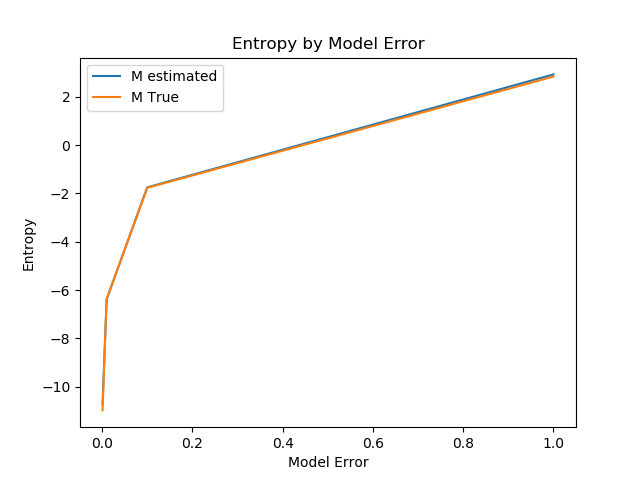
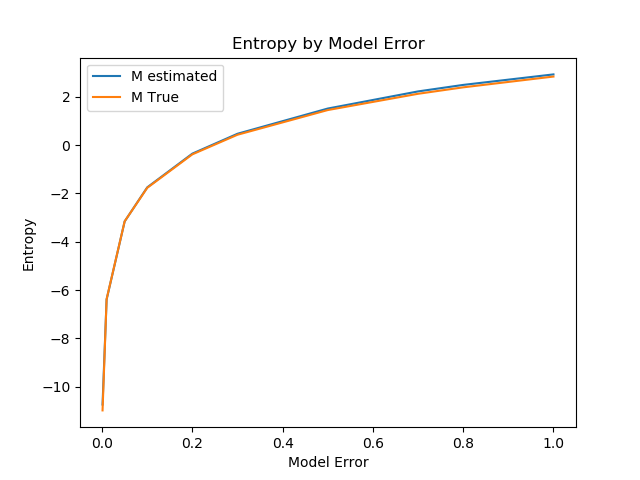
plot entropy

Changed region(s): [[0.375, 0.1562, 0.875, 0.3125], [0.1562, 0.2812, 0.4375, 0.625]]

diff --git a/exercise_2/task4/guy_algorithm.py b/exercise_2/task4/guy_algorithm.py
@@ -4,169 +4,171 @@ import matplotlib.pyplot as plt
 random_seed = 1  # used throughout the example
 np.random.seed(random_seed)
 
+def try_error(model_error=1e-3):
 
-def f_true(x, data_t):
-    xc0 = x[:, 0] + 1j * x[:, 1]
-    angle = np.angle(xc0)
-    xc1 = (1 + np.sin(5 * angle) / 3) * np.exp(1j * (angle + data_t))
-    return np.column_stack([np.real(xc1), np.imag(xc1)])
-
-
-def f_model(x, data_t, m_error):
-    return f_true(x, data_t) + np.random.randn(x.shape[0], x.shape[1]) * m_error
+    def f_true(x, data_t):
+        xc0 = x[:, 0] + 1j * x[:, 1]
+        angle = np.angle(xc0)
+        xc1 = (1 + np.sin(5 * angle) / 3) * np.exp(1j * (angle + data_t))
+        return np.column_stack([np.real(xc1), np.imag(xc1)])
 
 
-# Initial state of the true and simulated data
-x0 = np.array([1, 0]).reshape(1, -1)
-x0 = x0 / np.linalg.norm(x0)
-# Number of time steps for the given simulation
-NT = 100
-# Physical time that passes in the given number of time steps
-T = 5
-dt = T / NT
-time = np.linspace(0, T, NT)
+    def f_model(x, data_t, m_error):
+        return f_true(x, data_t) + np.random.randn(x.shape[0], x.shape[1]) * m_error
 
 
-# this 'parameter' essentially defines how well the model approximates the true dynamics for this example.
-# Values below 0.05 yield essentially no visible difference to the truth, while values above 0.1
-# make the trajectories almost indistinguishable from noise, and only ensemble runs make it possible to evaluate
-# the error and estimate the true state.
-model_error = 1e-3
-
-# this is the error in the true model, and also in the observations. You do not need to change this.
-true_error = 1e-4
-m = 10  # ensemble runs
-n = 1  # number of agents. Note that the models f_true and f_model only work
-d = 2  # dimension per "agent" (we only have one here) nd = n*d # total state dimension
-
-nd = n * d  # total state dimension
-xt = np.zeros((NT, (nd * m)))
-# initialize the ensembles with randomly perturbed states
-# in this example, this is not necessary because the model itself introduces
-
-xt[0, :] = np.column_stack([x0 + np.random.randn(1) / 1000 for i in range(m * n)])
-xm = xt.copy()
-for k in range(1, NT):
-    for i in range(m):
-        # using this as "true dynamics" means there is no noise in the true states(which is also ok)
-        # xt[k,(i*n):((i+1)*n)]=(f_true(xt[k-1,(i*n):((i+1)*n)].reshape(1,-1), dt))
-        # test what happens if the "true dynamics" are just a less noisy version of the model
-        xt[k, (i * nd):((i + 1) * nd)] = (f_model(xt[k - 1, (i * nd):((i + 1) * nd)].reshape(1, -1), dt, true_error))
-        xm[k, (i * nd):((i + 1) * nd)] = (f_model(xm[k - 1, (i * nd):((i + 1) * nd)].reshape(1, -1), dt, model_error))
-
-fig, ax = plt.subplots(1, 2, figsize=(8, 4), sharey='all')
-ax[0].scatter(xt[:, 0], xt[:, 1], s=1, label='true state')
-
-ax[0].scatter(xm[:, 0], xm[:, 1], s=1, label='model state')
-ax[0].set_xlabel('space 1')
-ax[0].set_ylabel('space 2')
-ax[0].set_title('trajectories in space')
-ax[0].legend()
-ax[1].plot(time, xt)
-ax[1].plot(time, xm)
-ax[1].set_xlabel('time')
-ax[1].set_ylabel('space 1,2')
-ax[1].set_title('trajectories in time')
-plt.show()
+    # Initial state of the true and simulated data
+    x0 = np.array([1, 0]).reshape(1, -1)
+    x0 = x0 / np.linalg.norm(x0)
+    # Number of time steps for the given simulation
+    NT = 100
+    # Physical time that passes in the given number of time steps
+    T = 5
+    dt = T / NT
+    time = np.linspace(0, T, NT)
 
 
-def normal_draw(cov):
-    """draw an n-dimensional point from a Gaussian distribution with givencovariance."""
-    return np.random.multivariate_normal(0 * cov[:, 0], cov, 1)
+    # this 'parameter' essentially defines how well the model approximates the true dynamics for this example.
+    # Values below 0.05 yield essentially no visible difference to the truth, while values above 0.1
+    # make the trajectories almost indistinguishable from noise, and only ensemble runs make it possible to evaluate
+    # the error and estimate the true state.
 
+    # this is the error in the true model, and also in the observations. You do not need to change this.
+    true_error = 1e-4
+    m = 10  # ensemble runs
+    n = 1  # number of agents. Note that the models f_true and f_model only work
+    d = 2  # dimension per "agent" (we only have one here) nd = n*d # total state dimension
 
-def observation(x):
-    # relatively simple observation function z=h(x), also no change in dimension
-    return -x / 2 + np.cos(x) / 3
+    nd = n * d  # total state dimension
+    xt = np.zeros((NT, (nd * m)))
+    # initialize the ensembles with randomly perturbed states
+    # in this example, this is not necessary because the model itself introduces
 
-
-# compute ensemble Kalman smoothing
-def algorithm1_enks(z_data, error_covariance_m, error_covariance_q, observation, fhat_model):
-    t = z_data.shape[0]
-    m_l = error_covariance_m
-    q_l = error_covariance_q
-
-    # initialize the initial guess for the model state with random numbers
-    # normally, one would probably have a better guess
-    xk = np.random.randn(z_data.shape[0], z_data.shape[1]) / 10000
-    for k in range(1, t):
-        zk = np.zeros((z_data.shape[1],))
+    xt[0, :] = np.column_stack([x0 + np.random.randn(1) / 1000 for i in range(m * n)])
+    xm = xt.copy()
+    for k in range(1, NT):
         for i in range(m):
-            mkm1 = normal_draw(m_l)
-            xk[k, (i * nd):((i + 1) * nd)] = fhat_model(xk[k - 1, (i * nd):((i + 1) * nd)].reshape(1, -1)) + mkm1
-            qk = normal_draw(q_l)
-            zk[(i * nd):((i + 1) * nd)] = observation(xk[k, (i * nd):((i + 1) * nd)].reshape(1, -1)) + qk
-        zkhat = 1 / m * np.sum([zk[i::nd] for i in range(nd)], axis=1)
-        zdiff = np.row_stack([(zk[(i * nd):((i + 1) * nd)] - zkhat) for i in range(m)])
-        z_k = np.cov(zdiff.T)
+            # using this as "true dynamics" means there is no noise in the true states(which is also ok)
+            # xt[k,(i*n):((i+1)*n)]=(f_true(xt[k-1,(i*n):((i+1)*n)].reshape(1,-1), dt))
+            # test what happens if the "true dynamics" are just a less noisy version of the model
+            xt[k, (i * nd):((i + 1) * nd)] = (f_model(xt[k - 1, (i * nd):((i + 1) * nd)].reshape(1, -1), dt, true_error))
+            xm[k, (i * nd):((i + 1) * nd)] = (f_model(xm[k - 1, (i * nd):((i + 1) * nd)].reshape(1, -1), dt, model_error))
 
-        for j in range(1, k + 1):
-            xjbar = np.array(1 / m * np.sum([xk[j, i::nd] for i in range(nd)], axis=1))
-            xdiff = np.row_stack([(xk[j, (i * nd):((i + 1) * nd)] - xjbar) for i in range(m)])
-            zdiff = np.row_stack([(zk[(i * nd):((i + 1) * nd)] - zkhat) for i in range(m)])
-            sigmaj = 1 / (m - 1) * (xdiff.T @ zdiff)
-            matk = sigmaj @ np.linalg.pinv(z_k, rcond=1e-10)
+    fig, ax = plt.subplots(1, 2, figsize=(8, 4), sharey='all')
+    ax[0].scatter(xt[:, 0], xt[:, 1], s=1, label='true state')
+
+    ax[0].scatter(xm[:, 0], xm[:, 1], s=1, label='model state')
+    ax[0].set_xlabel('space 1')
+    ax[0].set_ylabel('space 2')
+    ax[0].set_title('trajectories in space')
+    ax[0].legend()
+    ax[1].plot(time, xt)
+    ax[1].plot(time, xm)
+    ax[1].set_xlabel('time')
+    ax[1].set_ylabel('space 1,2')
+    ax[1].set_title('trajectories in time')
+    plt.show()
+
+
+    def normal_draw(cov):
+        """draw an n-dimensional point from a Gaussian distribution with givencovariance."""
+        return np.random.multivariate_normal(0 * cov[:, 0], cov, 1)
+
+
+    def observation(x):
+        # relatively simple observation function z=h(x), also no change in dimension
+        return -x / 2 + np.cos(x) / 3
+
+
+    # compute ensemble Kalman smoothing
+    def algorithm1_enks(z_data, error_covariance_m, error_covariance_q, observation, fhat_model):
+        t = z_data.shape[0]
+        m_l = error_covariance_m
+        q_l = error_covariance_q
+
+        # initialize the initial guess for the model state with random numbers
+        # normally, one would probably have a better guess
+        xk = np.random.randn(z_data.shape[0], z_data.shape[1]) / 10000
+        for k in range(1, t):
+            zk = np.zeros((z_data.shape[1],))
             for i in range(m):
-                xk[j, (i * nd):((i + 1) * nd)] = xk[j, (i * nd):((i + 1) * nd)] + matk @ (
-                        z_data[k, (i * nd):((i + 1) * nd)] - zk[(i * nd):((i + 1) * nd)])
-    return xk
+                mkm1 = normal_draw(m_l)
+                xk[k, (i * nd):((i + 1) * nd)] = fhat_model(xk[k - 1, (i * nd):((i + 1) * nd)].reshape(1, -1)) + mkm1
+                qk = normal_draw(q_l)
+                zk[(i * nd):((i + 1) * nd)] = observation(xk[k, (i * nd):((i + 1) * nd)].reshape(1, -1)) + qk
+            zkhat = 1 / m * np.sum([zk[i::nd] for i in range(nd)], axis=1)
+            zdiff = np.row_stack([(zk[(i * nd):((i + 1) * nd)] - zkhat) for i in range(m)])
+            z_k = np.cov(zdiff.T)
+
+            for j in range(1, k + 1):
+                xjbar = np.array(1 / m * np.sum([xk[j, i::nd] for i in range(nd)], axis=1))
+                xdiff = np.row_stack([(xk[j, (i * nd):((i + 1) * nd)] - xjbar) for i in range(m)])
+                zdiff = np.row_stack([(zk[(i * nd):((i + 1) * nd)] - zkhat) for i in range(m)])
+                sigmaj = 1 / (m - 1) * (xdiff.T @ zdiff)
+                matk = sigmaj @ np.linalg.pinv(z_k, rcond=1e-10)
+                for i in range(m):
+                    xk[j, (i * nd):((i + 1) * nd)] = xk[j, (i * nd):((i + 1) * nd)] + matk @ (
+                            z_data[k, (i * nd):((i + 1) * nd)] - zk[(i * nd):((i + 1) * nd)])
+        return xk
 
 
-def max_likelihood(xk, fhat_model):
-    t = xk.shape[0]
-    data = []
-    for k in range(1, t - 1):
-        for i in range(m):
-            fhat = fhat_model(xk[k, (i * nd):((i + 1) * nd)].reshape(1, -1))
-            xhat = xk[k + 1, (i * nd):((i + 1) * nd)]
-            data.append((xhat - fhat))
-    data = np.row_stack(data)
-    # note that we do not compute it "per agent", as in the paper guy-2019b,
-    # but for all coordinates of the state (we only consider one "agent" in this code)
-    return np.cov(data.T)
+    def max_likelihood(xk, fhat_model):
+        t = xk.shape[0]
+        data = []
+        for k in range(1, t - 1):
+            for i in range(m):
+                fhat = fhat_model(xk[k, (i * nd):((i + 1) * nd)].reshape(1, -1))
+                xhat = xk[k + 1, (i * nd):((i + 1) * nd)]
+                data.append((xhat - fhat))
+        data = np.row_stack(data)
+        # note that we do not compute it "per agent", as in the paper guy-2019b,
+        # but for all coordinates of the state (we only consider one "agent" in this code)
+        return np.cov(data.T)
 
 
-np.random.seed(random_seed)
-# this is the initial guess for the entropy matrix. can be pretty arbitrary
-M = np.identity(n)
-# this is the guess for the true error in the observations. should be small here
-Q = np.identity(n) * true_error ** 2
-N_ITER = 5  # number of iterations of algorithm1_enks and max_likelihood
-Mhat = M
-zk = observation(xt[1:, :])
-xm_hat = 0
-xm_hat_prev = 0
-for k in range(N_ITER):
-    xm_hat = algorithm1_enks(zk, Mhat, Q, observation, lambda x: f_model(x, dt, model_error))
-    Mhat = max_likelihood(xm_hat, lambda x: f_model(x, dt, model_error))
-    print('current det(M)', np.linalg.det(Mhat))
-    print('error change ', np.linalg.norm(xm_hat - xm_hat_prev))
-    xm_hat_prev = xm_hat
+    np.random.seed(random_seed)
+    # this is the initial guess for the entropy matrix. can be pretty arbitrary
+    M = np.identity(n)
+    # this is the guess for the true error in the observations. should be small here
+    Q = np.identity(n) * true_error ** 2
+    N_ITER = 5  # number of iterations of algorithm1_enks and max_likelihood
+    Mhat = M
+    zk = observation(xt[1:, :])
+    xm_hat = 0
+    xm_hat_prev = 0
+    for k in range(N_ITER):
+        xm_hat = algorithm1_enks(zk, Mhat, Q, observation, lambda x: f_model(x, dt, model_error))
+        Mhat = max_likelihood(xm_hat, lambda x: f_model(x, dt, model_error))
+        print('current det(M)', np.linalg.det(Mhat))
+        print('error change ', np.linalg.norm(xm_hat - xm_hat_prev))
+        xm_hat_prev = xm_hat
 
-fig, ax = plt.subplots(1, 2, figsize=(16, 4), sharey='all')
-ax[0].plot(time, xt[:, 0], label='true state 1')
-ax[0].plot(time, xt[:, 1], label='true state 2')
-ax[0].plot(time[1:], zk[:, 0], 'g:', label='observation 1')
-ax[0].plot(time[1:], zk[:, 1], 'g.', label='observation 2')
-ax[0].set_title('true states and observations')
-ax[0].legend()
+    fig, ax = plt.subplots(1, 2, figsize=(16, 4), sharey='all')
+    ax[0].plot(time, xt[:, 0], label='true state 1')
+    ax[0].plot(time, xt[:, 1], label='true state 2')
+    ax[0].plot(time[1:], zk[:, 0], 'g:', label='observation 1')
+    ax[0].plot(time[1:], zk[:, 1], 'g.', label='observation 2')
+    ax[0].set_title('true states and observations')
+    ax[0].legend()
 
-# this second plot shows the estimated MODEL (!) state, but since the model here is just the truth plus noise,
-# the estimated model state should be the true state.
-# We also skip the first state in xm_hat, since it was chosen at random.
-ax[1].plot(time[2:], xm_hat[1:, 0], '-', label='estimated model state 1')
-ax[1].plot(time[2:], xm_hat[1:, 1], '-', label='estimated model state 2')
-ax[1].set_title('estimated states from observations and model')
-ax[1].legend()
-plt.show()
-
-
-def entropy(m_dist):
-    return 1 / 2 * n * np.log((2 * np.pi * np.exp(1)) ** d * np.linalg.det(m_dist))
+    # this second plot shows the estimated MODEL (!) state, but since the model here is just the truth plus noise,
+    # the estimated model state should be the true state.
+    # We also skip the first state in xm_hat, since it was chosen at random.
+    ax[1].plot(time[2:], xm_hat[1:, 0], '-', label='estimated model state 1')
+    ax[1].plot(time[2:], xm_hat[1:, 1], '-', label='estimated model state 2')
+    ax[1].set_title('estimated states from observations and model')
+    ax[1].legend()
+    plt.show()
 
 
-# print the estimated entropy against the known entropy.
-# this is only possible in this computational experiment,
-# because we normally do not know the 'true model' and the model error.
-print('entropy(M estimated) ', entropy(Mhat))
-print('entropy(M true) ', entropy(np.identity(Mhat.shape[0]) * model_error ** 2))
+    def entropy(m_dist):
+        return 1 / 2 * n * np.log((2 * np.pi * np.exp(1)) ** d * np.linalg.det(m_dist))
+
+
+    # print the estimated entropy against the known entropy.
+    # this is only possible in this computational experiment,
+    # because we normally do not know the 'true model' and the model error.
+    print('entropy(M estimated) ', entropy(Mhat))
+    print('entropy(M true) ', entropy(np.identity(Mhat.shape[0]) * model_error ** 2))
+
+    return entropy(Mhat), entropy(np.identity(Mhat.shape[0]) * model_error ** 2)

diff --git a/exercise_2/plot entropy.py b/exercise_2/plot entropy.py
@@ -1,0 +1,27 @@
+import matplotlib.pyplot as plt
+import numpy as np
+import functools
+from task4.guy_algorithm import try_error
+
+errors = [1e-3, 1e-2, 5e-2, 1e-1, 2e-1, 3e-1, 5e-1, 7e-1, 8e-1, 1e-0]
+real_entropy = []
+predicted_entropy = []
+
+for error in errors:
+    predicted, real = try_error(error)
+    real_entropy.append(real)
+    predicted_entropy.append(predicted)
+
+plt.plot(errors, predicted_entropy, label='M estimated')
+plt.plot(errors, real_entropy, label='M True')
+
+#coef = np.polyfit(errors, [-10.7342, -6.3853, -1.7484, 2.9268], deg=3)
+#linspace = np.linspace(0, 1, num=100)
+#result = functools.reduce(lambda x, y: x + y, (c * linspace ** power for c, power in zip(coef, range(len(coef)-1, -1, -1))))
+#plt.plot(linspace, result, label='fitted curve of M estimated')
+
+plt.title('Entropy by Model Error')
+plt.xlabel('Model Error')
+plt.ylabel('Entropy')
+plt.legend()
+plt.savefig('./report/pictures/task4_entropy.png')
